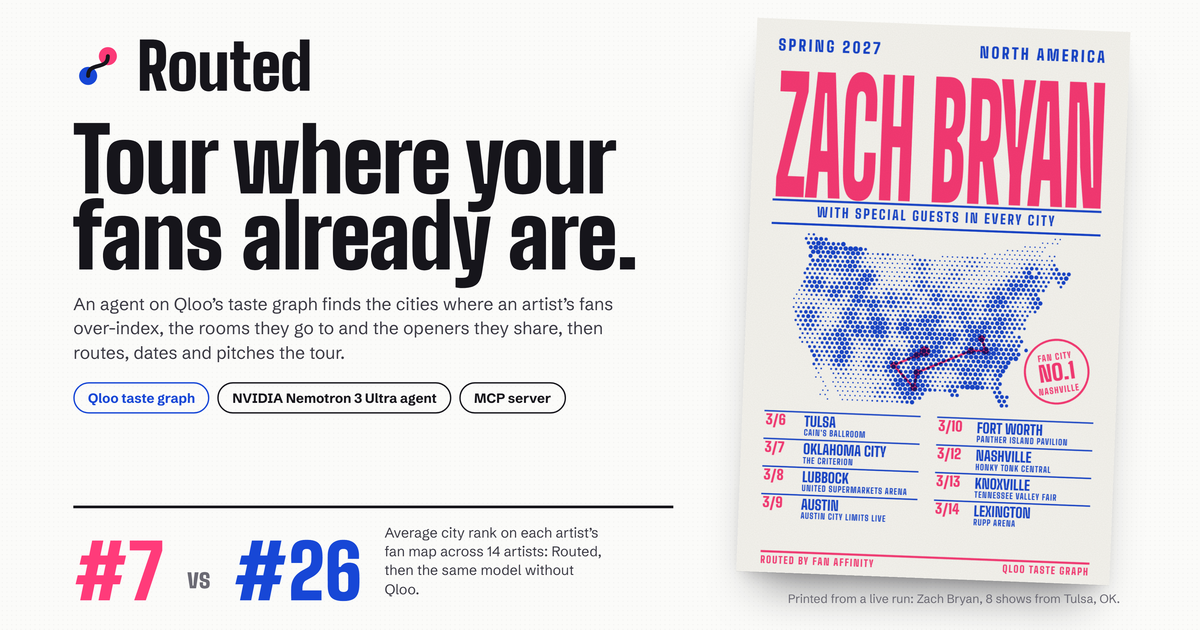
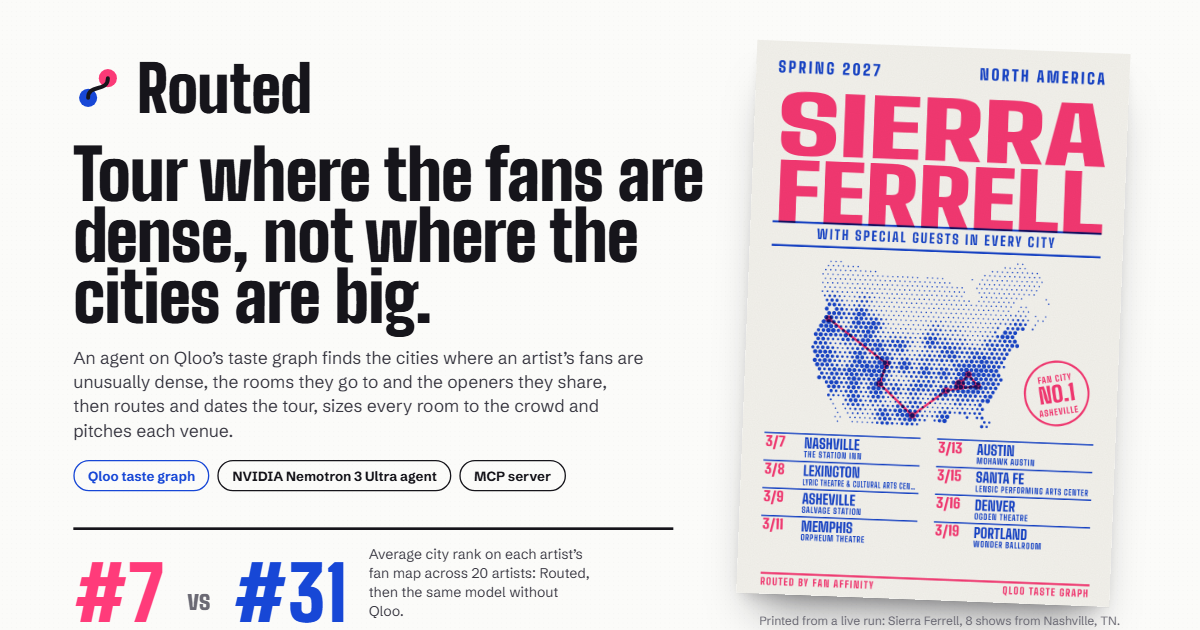
Cover and Open Graph image from the new showcase tour; the twenty-artist benchmark in the README

Changed region(s): [[0.6167, 0.0603, 0.925, 1.0], [0.0617, 0.0603, 0.5858, 0.6937], [0.0617, 0.7238, 0.555, 0.9952]]

diff --git a/README.md b/README.md
@@ -52,7 +52,32 @@ A typical eight-show tour makes about 70 Qloo calls. Every one is listed, with i
 
 Twenty artists, eight shows each, run on the live site. The same model (Nemotron 3 Ultra), starting city and crowd size on both sides; the model alone gets the artist's name, Routed's agent gets Qloo. Each number is the average rank of a tour's cities among every touring city in the region on that artist's heatmap (lower is closer to the fans).
 
-<!-- BENCH -->
+**Routed's cities averaged #7.0. The same model without Qloo averaged #31.4.**
+
+| Artist | Routed | Model alone | Cities in common | Strongest city the model missed | Weakest city it chose |
+|---|---|---|---|---|---|
+| [Tyler Childers](https://routed-tours.vercel.app/tour/kejz64q6yh) | #8.9 | #131.1 | 2 of 8 | Asheville (#2) | Toronto (#329) |
+| [Caamp](https://routed-tours.vercel.app/tour/6tk6n3ddrt) | #9.0 | #51.0 | 2 of 8 | Asheville (#3) | Toronto (#142) |
+| [Parcels](https://routed-tours.vercel.app/tour/fegyjwfdhc) | #6.3 | #46.9 | 5 of 8 | Hamburg (#3) | London (not a touring city) |
+| [Waxahatchee](https://routed-tours.vercel.app/tour/efbjv3pqhm) | #6.6 | #41.9 | 1 of 8 | Portland (#1) | Atlanta (#101) |
+| [Durand Jones & The Indications](https://routed-tours.vercel.app/tour/w3q8mqugw5) | #6.6 | #36.3 | 1 of 8 | Los Angeles (#1) | Indianapolis (#89) |
+| [Ghost](https://routed-tours.vercel.app/tour/i7u3uwtgkp) | #8.6 | #37.8 | 2 of 8 | Kassel (#3) | Oslo (#82) |
+| [MJ Lenderman](https://routed-tours.vercel.app/tour/y2bu9g93km) | #6.4 | #33.3 | 2 of 8 | Chicago (#1) | Vancouver (#136) |
+| [Khruangbin](https://routed-tours.vercel.app/tour/vu73da2rev) | #7.1 | #33.8 | 3 of 8 | San Francisco (#1) | Atlanta (#68) |
+| [Cuco](https://routed-tours.vercel.app/tour/c44m7w2pe5) | #8.0 | #32.5 | 3 of 8 | San Diego (#4) | Toronto (#80) |
+| [Zach Bryan](https://routed-tours.vercel.app/tour/7npvs4s4pa) | #5.3 | #28.5 | 2 of 8 | Knoxville (#2) | Atlanta (#76) |
+| [Clairo](https://routed-tours.vercel.app/tour/hvzihh6xwn) | #6.5 | #27.0 | 3 of 8 | Los Angeles (#1) | Cleveland (#68) |
+| [Turnstile](https://routed-tours.vercel.app/tour/9khhba88dh) | #6.8 | #22.8 | 2 of 8 | Los Angeles (#2) | Montreal (#47) |
+| [Knocked Loose](https://routed-tours.vercel.app/tour/tdba52itrm) | #6.3 | #21.9 | 3 of 8 | Philadelphia (#1) | Minneapolis (#51) |
+| [JPEGMAFIA](https://routed-tours.vercel.app/tour/v2se8avtc7) | #7.4 | #17.3 | 2 of 8 | New York (#1) | Cleveland (#37) |
+| [Jamie xx](https://routed-tours.vercel.app/tour/mh455y4xfv) | #3.8 | #10.9 | 4 of 8 | Edinburgh (#5) | Nottingham (#25) |
+| [Alvvays](https://routed-tours.vercel.app/tour/7pkm7qrf9b) | #7.9 | #14.8 | 4 of 8 | Vancouver (#3) | Detroit (#33) |
+| [Japanese Breakfast](https://routed-tours.vercel.app/tour/9cqy3sbyua) | #7.1 | #12.5 | 4 of 8 | Boston (#4) | Toronto (#32) |
+| [Arlo Parks](https://routed-tours.vercel.app/tour/my7jyevft7) | #7.7 | #10.9 | 3 of 8 | Edinburgh (#6) | Dublin (#27) |
+| [WET LEG](https://routed-tours.vercel.app/tour/eifb8nspyh) | #7.3 | #9.8 | 3 of 8 | Brighton (#2) | Dublin (#32) |
+| [Fontaines D.C.](https://routed-tours.vercel.app/tour/9v92q47kb2) | #6.9 | #8.4 | 4 of 8 | Cork (#5) | Cardiff (#19) |
+
+Qloo earns its keep where an artist's audience doesn't follow the population: the model alone booked Tyler Childers into Toronto (#329 on his map) and Caamp into Toronto too (#142), while Qloo put their strongest fans in Asheville. The gap is smallest in the UK and Ireland, where touring cities are few and the biggest ones are also where the fans are: for Fontaines D.C. the two tours sit a rank and a half apart.
 
 Read this with Qloo's own ruler in mind: Routed chooses from the heatmap ranking it is then scored on, so the number shows how far a model routing from memory strays from where the taste graph puts the fans, not that the graph is right. The [benchmark page](https://routed-tours.vercel.app/proof) says so, gives the median stop and the share of stops in each artist's top ten (one #202 can't pull those), shows the exact baseline prompt, and names where the model alone keeps up: the UK, where touring cities are few and the biggest ones are also where the fans are. A model-alone city is placed by its name, then by the named room's coordinates on Qloo, then by Qloo's locality search; a stop that resolves to a town with no touring city near it counts last, and one that can't be placed at all is left out rather than counted against the model.
 
